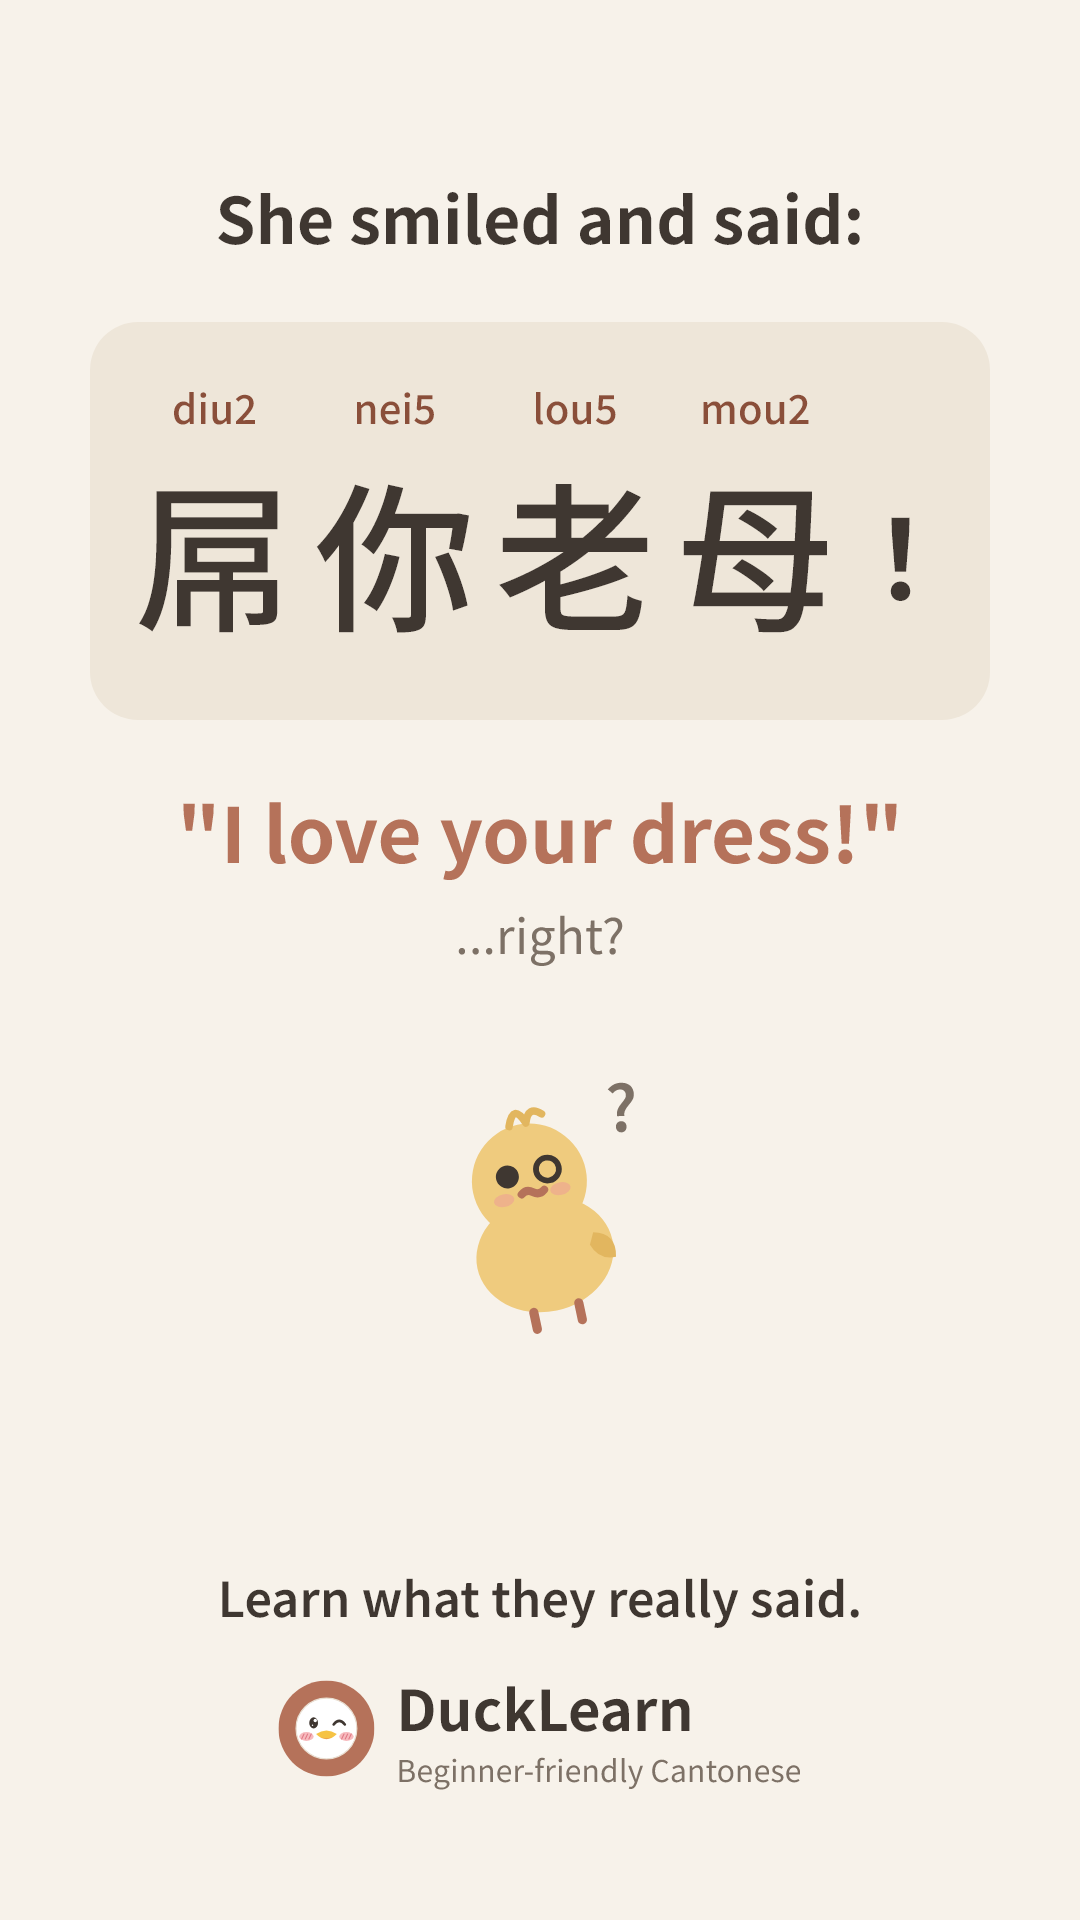
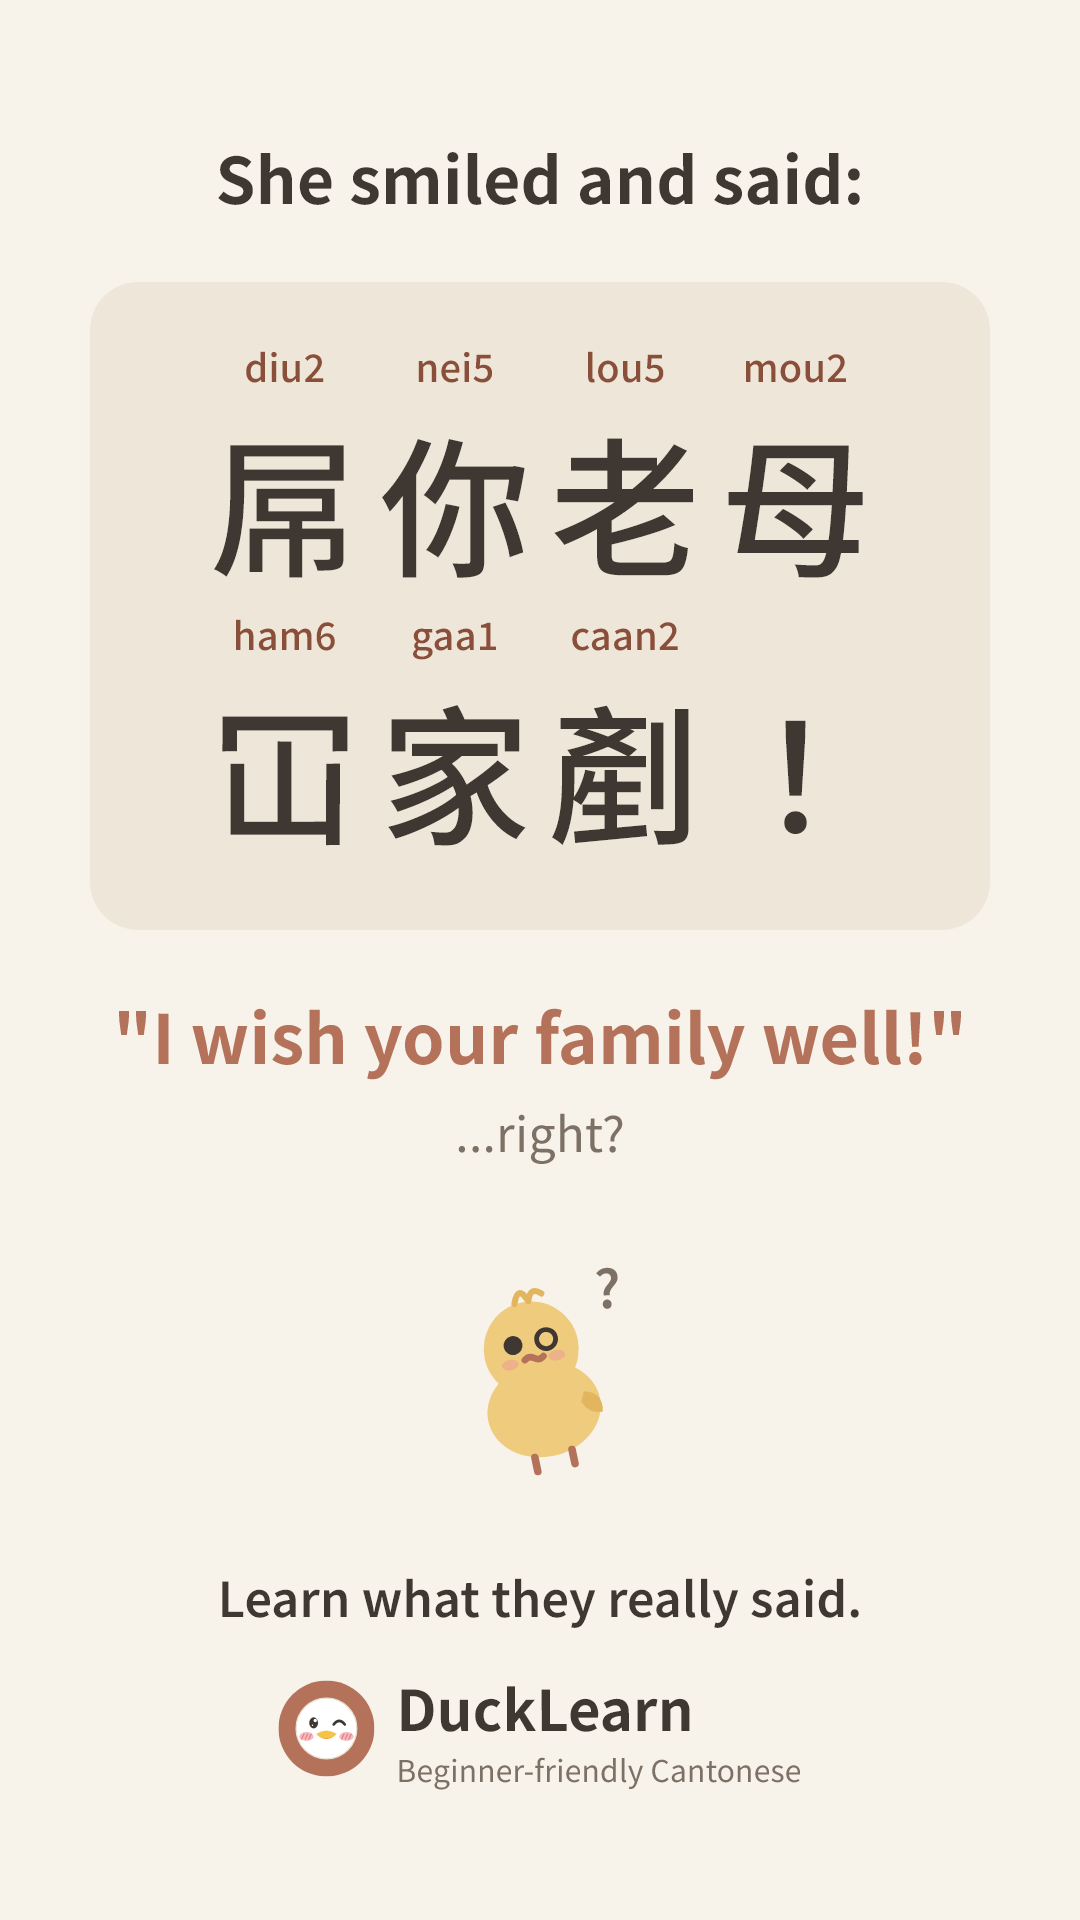
Funny ad: 屌你老母冚家剷 with "I wish your family well!"
Readings from the dictionary: diu2 nei5 lou5 mou2 ham6 gaa1 caan2.

Changed region(s): [[0.1222, 0.1875, 0.8861, 0.7812], [0.1833, 0.0625, 0.7944, 0.125], [0.825, 0.25, 0.8556, 0.3125]]

diff --git a/app/test/ui/banner_test.dart b/app/test/ui/banner_test.dart
@@ -230,13 +230,16 @@ void main() {
   });
 
   // The funny one: a "translation" you should not trust. Readings from the dictionary
-  // (duk annotate): 屌 diu2, 你 nei5, 老 lou5, 母 mou2.
+  // (duk annotate): 屌 diu2, 你 nei5, 老 lou5, 母 mou2, 冚 ham6, 家 gaa1, 剷 caan2.
   testWidgets('mobile ad 9:16, funny', (t) async {
     await loadFont('NotoSansHK', 'assets/fonts/NotoSansHK.ttf');
     t.view.devicePixelRatio = 1;
     t.view.physicalSize = const Size(1080, 1920);
     addTearDown(t.view.reset);
-    const line = [('屌', 'diu2'), ('你', 'nei5'), ('老', 'lou5'), ('母', 'mou2')];
+    const rows = [
+      [('屌', 'diu2'), ('你', 'nei5'), ('老', 'lou5'), ('母', 'mou2')],
+      [('冚', 'ham6'), ('家', 'gaa1'), ('剷', 'caan2'), ('！', '')],
+    ];
     TextStyle sans(double size, Color c, {FontWeight w = FontWeight.w700}) =>
         TextStyle(
           fontFamily: 'NotoSansHK',
@@ -257,7 +260,7 @@ void main() {
               height: 1920,
               child: Column(
                 children: [
-                  const SizedBox(height: 170),
+                  const SizedBox(height: 130),
                   Text('She smiled and said:', style: sans(64, Palette.bark)),
                   const SizedBox(height: 60),
                   // the line, with Jyutping on top, as in the app
@@ -268,51 +271,53 @@ void main() {
                       color: Palette.oat,
                       borderRadius: BorderRadius.circular(48),
                     ),
-                    child: Row(
-                      mainAxisAlignment: MainAxisAlignment.center,
-                      crossAxisAlignment: CrossAxisAlignment.end,
+                    child: Column(
                       children: [
-                        for (final (ch, r) in line)
-                          Padding(
-                            padding: const EdgeInsets.symmetric(horizontal: 10),
-                            child: Column(
-                              children: [
-                                Text(
-                                  r,
-                                  style: sans(
-                                    40,
-                                    Palette.terraDeep,
-                                    w: FontWeight.w500,
+                        for (final row in rows)
+                          Row(
+                            mainAxisAlignment: MainAxisAlignment.center,
+                            children: [
+                              for (final (ch, r) in row)
+                                Padding(
+                                  padding: const EdgeInsets.symmetric(
+                                    horizontal: 10,
+                                  ),
+                                  child: Column(
+                                    children: [
+                                      Text(
+                                        r,
+                                        style: sans(
+                                          38,
+                                          Palette.terraDeep,
+                                          w: FontWeight.w500,
+                                        ),
+                                      ),
+                                      Text(
+                                        ch,
+                                        locale: const Locale('zh', 'HK'),
+                                        style: sans(
+                                          150,
+                                          Palette.bark,
+                                          w: FontWeight.w500,
+                                        ),
+                                      ),
+                                    ],
                                   ),
                                 ),
-                                Text(
-                                  ch,
-                                  locale: const Locale('zh', 'HK'),
-                                  style: sans(
-                                    160,
-                                    Palette.bark,
-                                    w: FontWeight.w500,
-                                  ),
-                                ),
-                              ],
-                            ),
+                            ],
                           ),
-                        Padding(
-                          padding: const EdgeInsets.only(bottom: 34),
-                          child: Text('！', style: sans(110, Palette.bark)),
-                        ),
                       ],
                     ),
                   ),
                   const SizedBox(height: 56),
-                  Text('"I love your dress!"', style: sans(76, Palette.terra)),
+                  Text('"I wish your family well!"', style: sans(68, Palette.terra)),
                   const SizedBox(height: 14),
                   Text(
                     '...right?',
                     style: sans(48, Palette.barkSoft, w: FontWeight.w400),
                   ),
                   const SizedBox(height: 40),
-                  const Chick(mood: ChickMood.confused, size: 460),
+                  const Chick(mood: ChickMood.confused, size: 380),
                   const Spacer(),
                   Text(
                     'Learn what they really said.',
